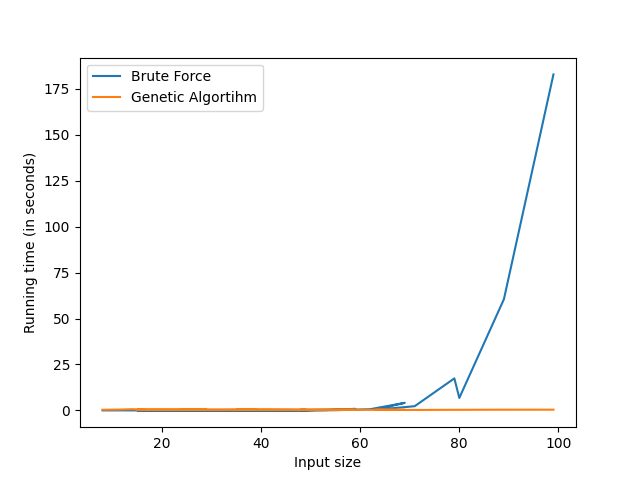
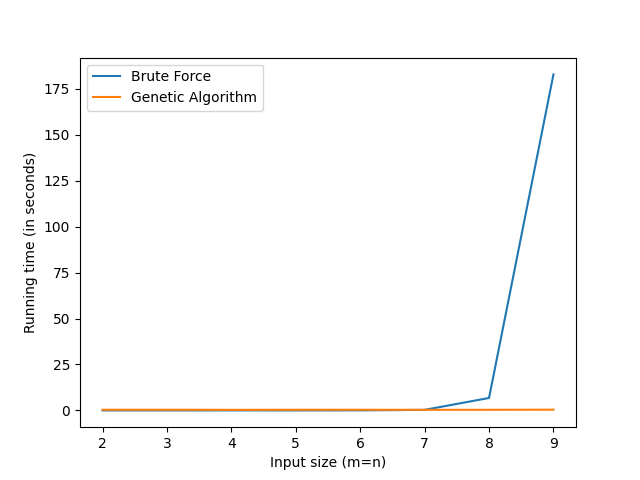
README updated

diff --git a/tutorial/map_tutorial.py b/tutorial/map_tutorial.py
@@ -23,23 +23,23 @@ KEY = 'GL4Ghj-44nBGKEZYxt8GKnQoi25c8qlFe98nX6nGJ1U'
 # bottom_right = '25.58068061010138, 85.1761472496063'
 
 
-# Gorapkhpur, UP, India
-top_left = '26.77340115409228, 83.35400937128232'
-bottom_right = '26.74836515580979, 83.38955667002368'
+# # Gorapkhpur, UP, India
+# top_left = '26.77340115409228, 83.35400937128232'
+# bottom_right = '26.74836515580979, 83.38955667002368'
 
 
-# # New Delhi
-# top_left = '28.687203816391193, 77.04710350388676'
-# bottom_right = '28.547244344345092, 77.41867712678446'
+# New Delhi
+top_left = '28.687203816391193, 77.04710350388676'
+bottom_right = '28.547244344345092, 77.41867712678446'
 
 # # small map
 # top_left = '25.611141692828234, 85.07440251214753'
 # bottom_right = '25.602840502150624, 85.0818697823339'
 
 
-# Mumbai
-top_left = '19.36948637980195, 72.79233915629305'
-bottom_right = '18.963866, 73.074425'
+# # Mumbai
+# top_left = '19.36948637980195, 72.79233915629305'
+# bottom_right = '18.963866, 73.074425'
 
 
 # # Hyderabad

diff --git a/grid_partition/real_map/main.py b/grid_partition/real_map/main.py
@@ -55,17 +55,19 @@ print()
 
 ##################################################################################
 
-pr.colorPartitions()
+# pr.colorPartitions()
 
-print('[-] Plotting...')
-plot_graph(graph, coord, pr.color, 'partitioned.png')
-print('[+] Done')
+# print('[-] Plotting...')
+# plot_graph(graph, coord, pr.color, 'partitioned.png')
+# print('[+] Done')
+
 print()
 
 ##################################################
 # pl = Placement(graph, coord, demands)
 ##################################################
 
+print('[-] Saving the components...')
 with open('components.txt', 'w') as fi:
 
     cnt = 1
@@ -89,7 +91,7 @@ with open('components.txt', 'w') as fi:
 #         # print()
 #         # break
 
-
+print('[+] Done')
         
 
 

diff --git a/algorithm/comparisons/plotter.py b/algorithm/comparisons/plotter.py
@@ -23,18 +23,25 @@ for row in data:
     t1 = float(row[2])  # time vale in seconds
     t2 = float(row[3])  # time value in seconds
 
-    x1.append(m+n+m*n)
-    y1.append(t1)
+    # x1.append(m+n+m*n)
+    # y1.append(t1)
     
-    x2.append(m+n+m*n)
-    y2.append(t2)
+    # x2.append(m+n+m*n)
+    # y2.append(t2)
+
+    if m == n:
+        x1.append(m)
+        y1.append(t1)
+
+        x2.append(m)
+        y2.append(t2)
 
 
 
-plt.xlabel('Input size')
+plt.xlabel('Input size (m=n)')
 plt.ylabel('Running time (in seconds)')
 plt.plot(x1, y1, label='Brute Force')
-plt.plot(x2, y2, label='Genetic Algortihm')
+plt.plot(x2, y2, label='Genetic Algorithm')
 plt.legend()
 plt.savefig('running_time.png')
 plt.show()

diff --git a/map_extraction/extract_roads.py b/map_extraction/extract_roads.py
@@ -91,7 +91,7 @@ epsilon = 0.01  # when the retrieved data shows no traffic on a road, then assig
 
 
 # It returns different edges for 2-way road: from point A to point b and from point B to point A.
-# The traffic levels on the 2 roads can be different. But in this implemenation, we are only considering
+# The traffic levels on the 2 roads can be different. But in this implementation, we are only considering
 # one of the 2 roads for NOW. Or , maybe we can try to add the traffic levels of both the road into one??
 # Consider all the roads, even the smaller ones
 for road in roads:

diff --git a/algorithm/data_processing/utils.cpp b/algorithm/data_processing/utils.cpp
@@ -78,7 +78,7 @@ void process(const string &line)
 
     // Get the construction costs
     // Keep the construction costs same for now
-    vector<long double> construction_cost(m, 1.00);
+    vector<long double> construction_cost(m, 1000.00);
 
 
 

diff --git a/README.md b/README.md
@@ -1,5 +1,8 @@
 # Placement of Electric Vehicle Charging Stations in a City
 
 ## About
--The final year project of B.Tech. Computer Science (2018-2022), submitted to Indian Institute of Technology, Patna
 
+The final year Project of B.Tech. (BTP), Computer Science (2018-2022), submitted to Indian Institute of Technology, Patna
+
+Name - Saumya Prakash
+Roll No. - 1801CS68
